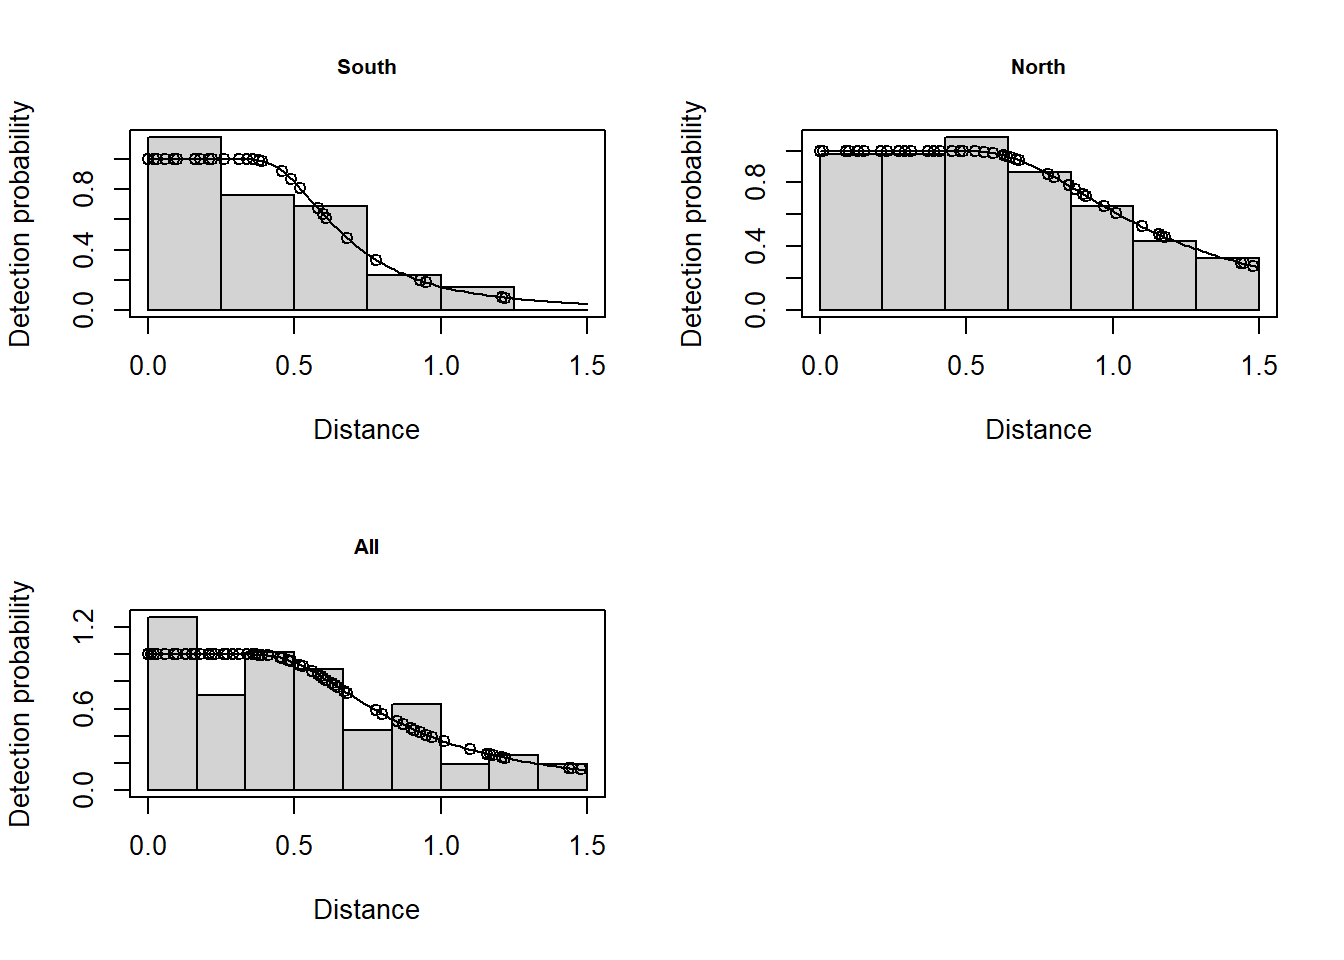
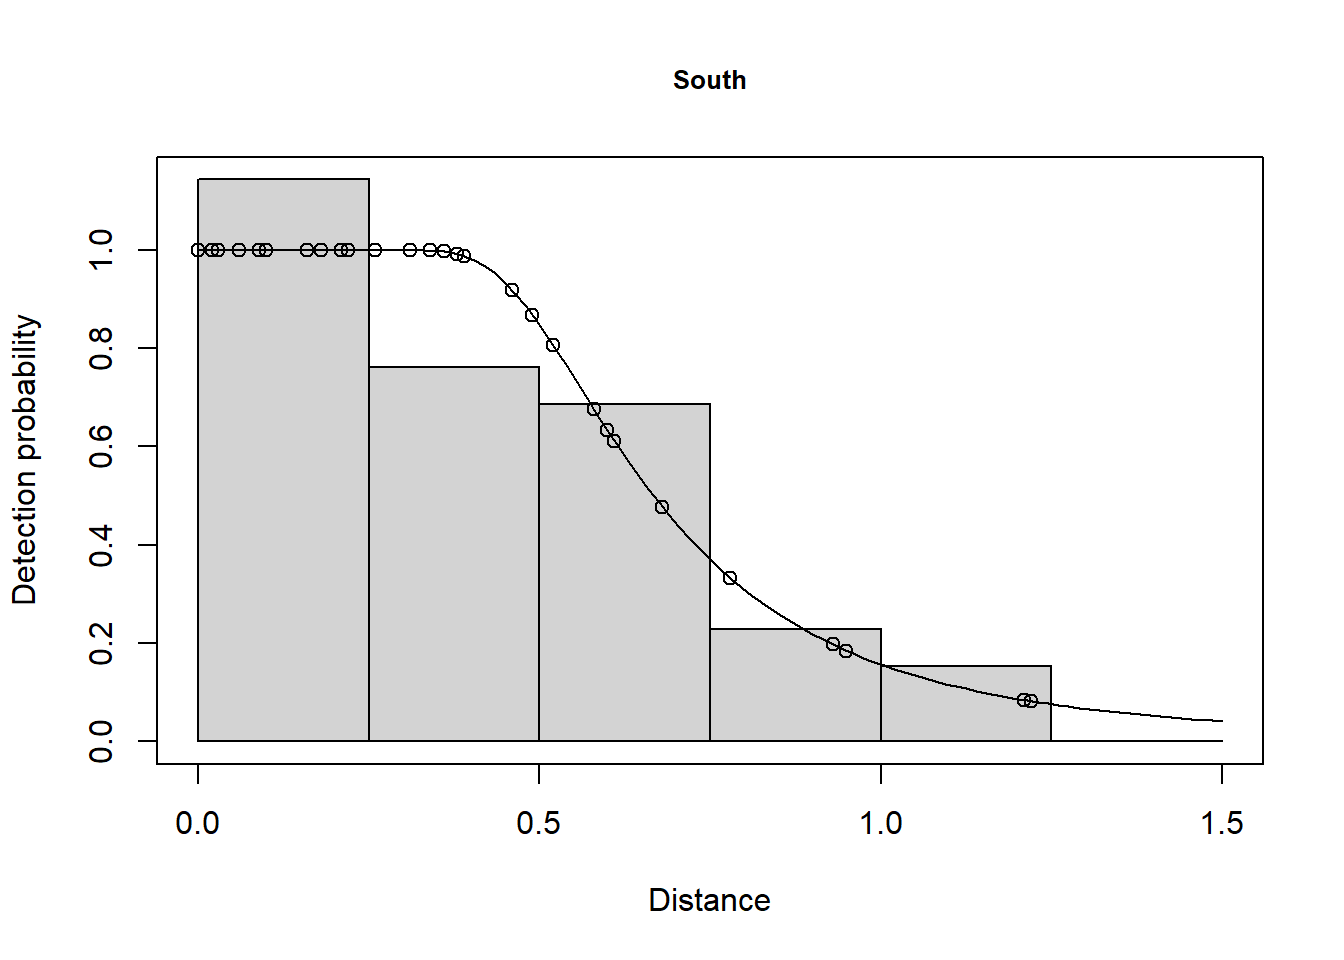
dump par(mfrow=) from pr7 solution

diff --git a/docs/Pr7/Prac7_solution.html b/docs/Pr7/Prac7_solution.html
@@ -412,9 +412,19 @@ Density:
 <section id="determining-the-correct-stratification-to-use" class="level1">
 <h1>Determining the correct stratification to use</h1>
 <p>The AIC value for the detection function in the South was 8.617 and the AIC for the North was 37.28. This gives a total AIC of 45.9. The AIC value for the pooled detection function was 48.64. Because 48.64 is greater than 45.9, estimation of separate detection functions in each stratum is preferable.</p>
-<div class="cell">
-<div class="cell-output-display">
+<div class="cell quarto-layout-panel">
+<div class="quarto-layout-row quarto-layout-valign-top">
+<div class="cell-output-display quarto-layout-cell" style="flex-basis: 50.0%;justify-content: center;">
 <p><img src="Prac7_solution_files/figure-html/unnamed-chunk-5-1.png" class="img-fluid" width="672"></p>
+</div>
+<div class="cell-output-display quarto-layout-cell" style="flex-basis: 50.0%;justify-content: center;">
+<p><img src="Prac7_solution_files/figure-html/unnamed-chunk-5-2.png" class="img-fluid" width="672"></p>
+</div>
+</div>
+<div class="quarto-layout-row quarto-layout-valign-top">
+<div class="cell-output-display quarto-layout-cell" style="flex-basis: 50.0%;justify-content: center;">
+<p><img src="Prac7_solution_files/figure-html/unnamed-chunk-5-3.png" class="img-fluid" width="672"></p>
+</div>
 </div>
 </div>
 </section>
